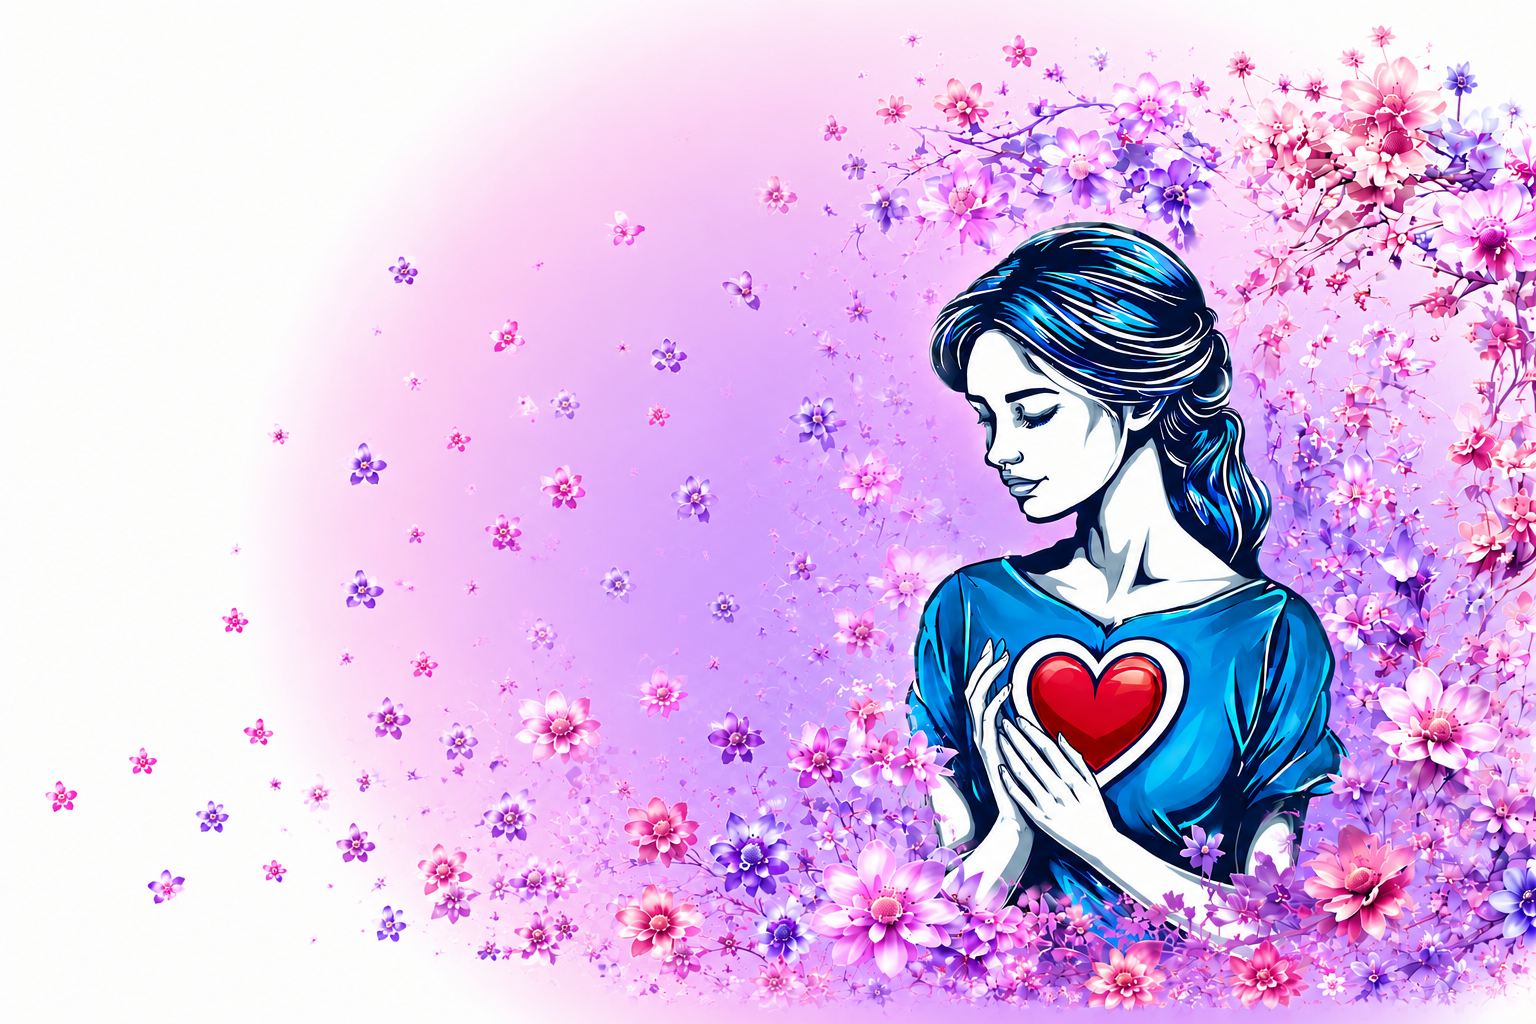
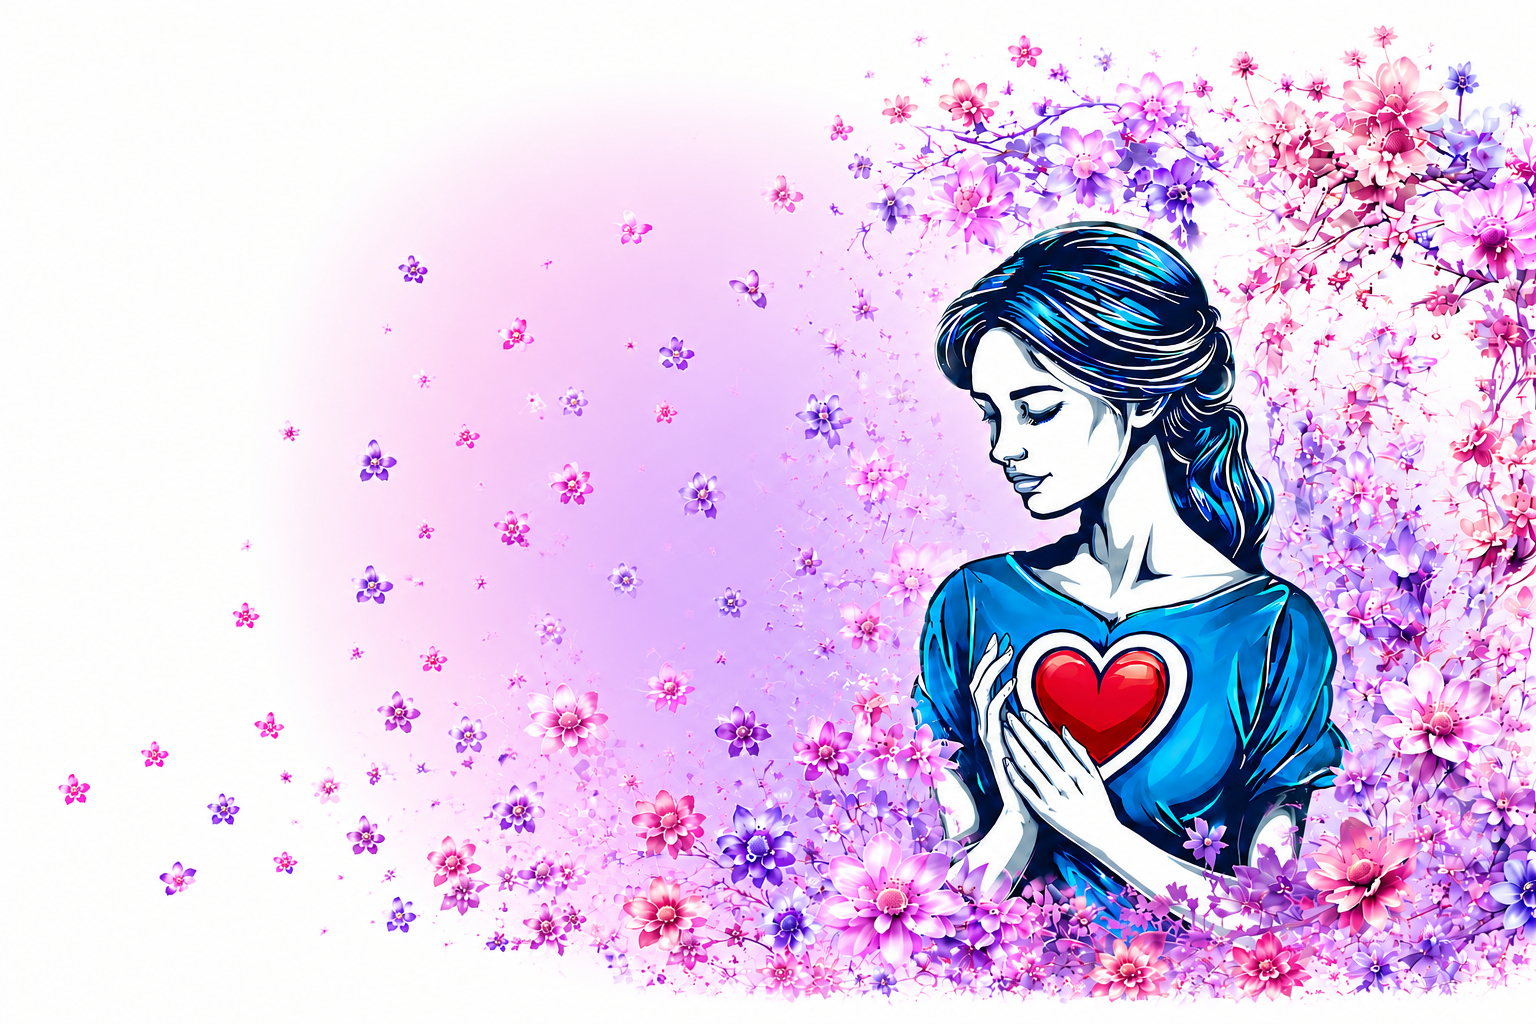
dezign

diff --git a/src/App.tsx b/src/App.tsx
@@ -1423,13 +1423,8 @@ export default function App() {
           <>
             {/* Hero Section */}
             <section className="relative pt-8 pb-20 overflow-hidden">
-              {/* Blobs */}
-              <div className="blob w-48 h-48 sm:w-80 sm:h-80 md:w-96 md:h-96 bg-purple-500 top-0 -left-20 opacity-40" />
-              <div className="blob w-40 h-40 sm:w-64 sm:h-64 md:w-80 md:h-80 bg-yellow-400 bottom-0 right-0 opacity-40" />
-              <div className="blob w-32 h-32 sm:w-48 sm:h-48 md:w-64 md:h-64 bg-pink-400 top-1/2 -right-10 opacity-30" />
-              
-              {/* Иллюстрация "Мама и дитя" в роли фонового/сопроводительного элемента */}
-              <div className="absolute right-0 -translate-y-1/2 top-[180px] xs:top-[195px] sm:top-[230px] md:top-[260px] lg:top-[53%] lg:bottom-auto w-[180px] xs:w-[220px] sm:w-[290px] md:w-[370px] lg:w-[580px] xl:w-[680px] h-[240px] xs:h-[300px] sm:h-[400px] md:h-[500px] lg:h-[82%] xl:h-[88%] pointer-events-none z-0 opacity-[0.14] sm:opacity-20 md:opacity-[0.24] lg:opacity-85 select-none overflow-visible">
+              {/* Иллюстрация "Мама" в роли фонового/сопроводительного элемента */}
+              <div className="absolute right-0 -translate-y-1/2 top-[90px] xs:top-[25px] sm:top-[70px] md:top-[80px] lg:top-[40%] lg:bottom-auto w-[180px] xs:w-[220px] sm:w-[290px] md:w-[370px] lg:w-[580px] xl:w-[680px] h-[240px] xs:h-[300px] sm:h-[400px] md:h-[500px] lg:h-[82%] xl:h-[88%] pointer-events-none z-0 select-none overflow-visible">
                 <img 
                   src="/header.png" 
                   alt="Мы как все иллюстрация" 
@@ -1437,6 +1432,11 @@ export default function App() {
                   referrerPolicy="no-referrer"
                 />
               </div>
+              {/* Blobs */}
+              <div className="blob w-48 h-48 sm:w-80 sm:h-80 md:w-96 md:h-96 bg-purple-500 top-0 -left-20 opacity-40" />
+              <div className="blob w-40 h-40 sm:w-20 sm:h-20 md:w-80 md:h-80 bg-yellow-400 bottom-0 right-0 opacity-30" />
+              <div className="blob w-32 h-32 sm:w-48 sm:h-48 md:w-64 md:h-64 bg-pink-400 top-1/2 -right-10 opacity-20" />
+              
 
               {/* Летающие лепестки и частицы, связывающие иллюстрацию с текстом */}
               <HeroFlowerParticles />
@@ -1846,8 +1846,8 @@ export default function App() {
                             {/* Кнопка только для Спонсоров */}
                             {activeHelpTab === 'sponsors' && (
                               <a 
-                                href="/dogovor_bezvozmezdnoj_pomoshchi.docx" 
-                                download="dogovor_bezvozmezdnoj_pomoshchi.docx"
+                                href="/Договор_безвозд_помощи_и_приложение.pdf" 
+                                download="Договор_безвозд_помощи_и_приложение.pdf"
                                 className="inline-flex items-center gap-3 px-6 py-3 rounded-xl text-white font-black text-sm md:text-base shadow-lg transition-all hover:scale-105 active:scale-95 text-center bg-amber-600 shadow-amber-100"
                               >
                                 {activeTab.cta}
@@ -1937,9 +1937,9 @@ export default function App() {
 
                 <div className="grid grid-cols-3 gap-1.5 xs:gap-2 sm:gap-4 md:gap-6">
                   {[
-                    { val: '20+', label: 'Стольким семьям уже помогли' },
-                    { val: '9+', label: 'Проектов реализовано' },
-                    { val: '20+', label: 'Мероприятий проведено' }
+                    { val: '70+', label: 'Стольким семьям уже помогли' },
+                    { val: '20+', label: 'Проектов реализовано' },
+                    { val: '100+', label: 'Мероприятий проведено' }
                   ].map((stat, i) => (
                     <motion.div 
                       key={i} 